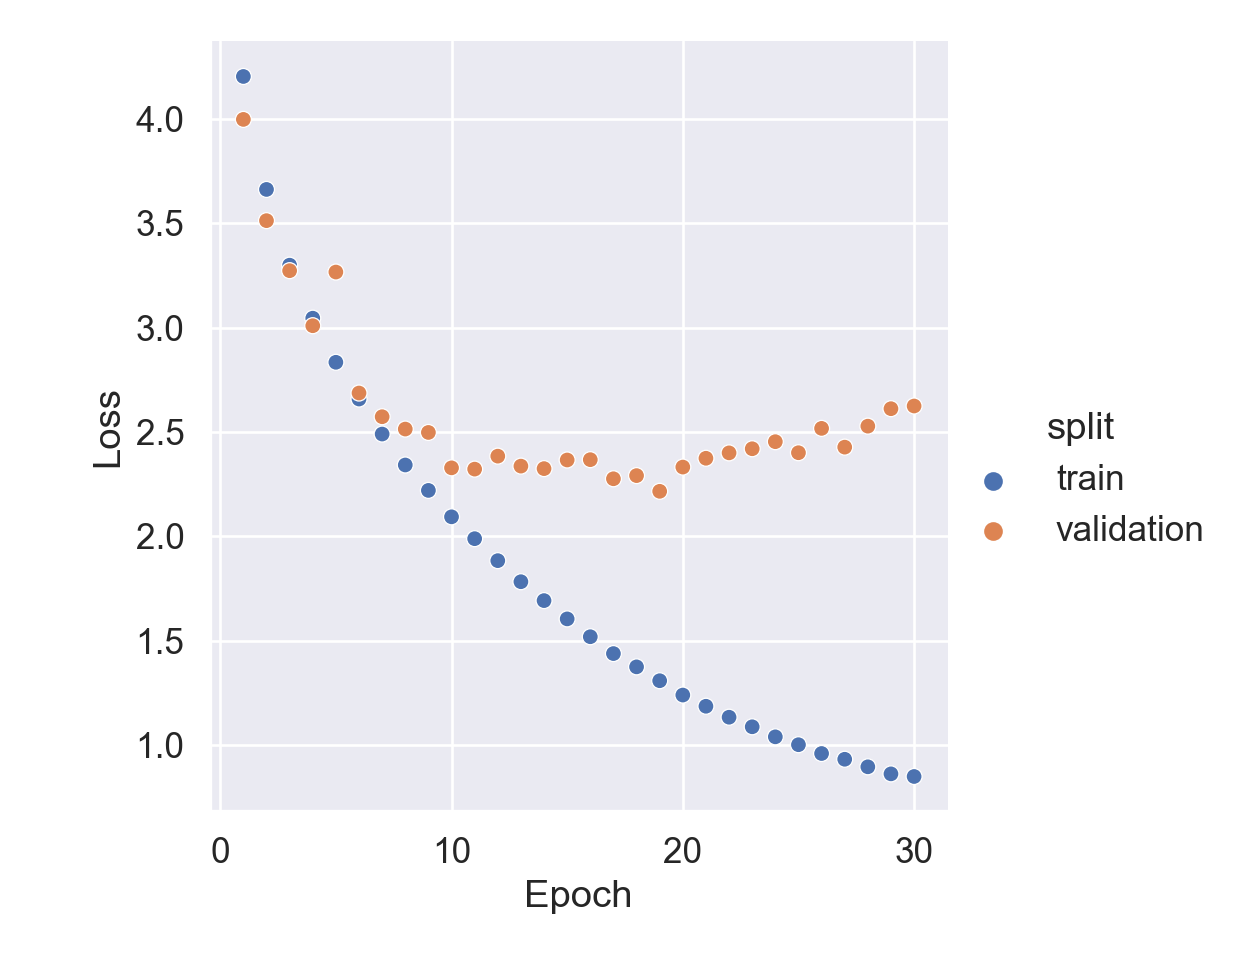
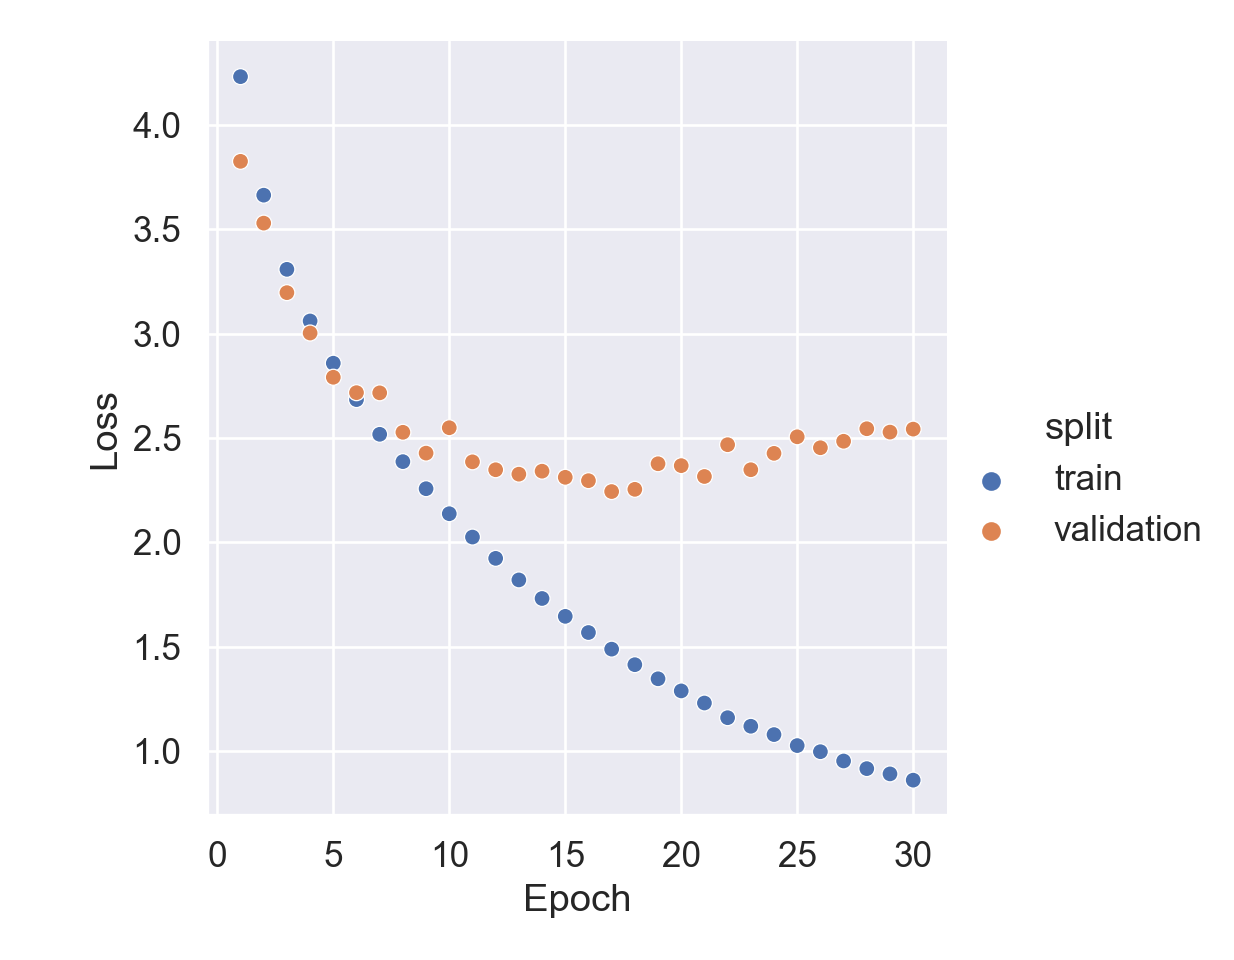
minor edits

diff --git a/slides/10-nn/cifar100_cnn/cifar100_cnn.html b/slides/10-nn/cifar100_cnn/cifar100_cnn.html
@@ -7,7 +7,7 @@
 <meta name="viewport" content="width=device-width, initial-scale=1.0, user-scalable=yes">
 
 <meta name="author" content="Dr.&nbsp;Hua Zhou @ UCLA">
-<meta name="dcterms.date" content="2023-02-22">
+<meta name="dcterms.date" content="2023-02-23">
 
 <title>CNN on the CIFAR100 Data</title>
 <style>
@@ -125,7 +125,7 @@ code span.wa { color: #60a0b0; font-weight: bold; font-style: italic; } /* Warni
 <header id="title-block-header" class="quarto-title-block default">
 <div class="quarto-title">
 <h1 class="title">CNN on the CIFAR100 Data</h1>
-<p class="subtitle lead">Econ 425T</p>
+<p class="subtitle lead">Econ 425T / Biostat 203B</p>
 </div>
 
 
@@ -142,7 +142,7 @@ code span.wa { color: #60a0b0; font-weight: bold; font-style: italic; } /* Warni
     <div>
     <div class="quarto-title-meta-heading">Published</div>
     <div class="quarto-title-meta-contents">
-      <p class="date">February 22, 2023</p>
+      <p class="date">February 23, 2023</p>
     </div>
   </div>
   
@@ -195,7 +195,7 @@ attached base packages:
 loaded via a namespace (and not attached):
  [1] Rcpp_1.0.9        here_1.0.1        lattice_0.20-45   png_0.1-8        
  [5] withr_2.5.0       rprojroot_2.0.3   digest_0.6.29     grid_4.2.2       
- [9] jsonlite_1.8.0    magrittr_2.0.3    evaluate_0.15     rlang_1.0.4      
+ [9] jsonlite_1.8.0    magrittr_2.0.3    evaluate_0.15     rlang_1.0.6      
 [13] stringi_1.7.8     cli_3.4.1         rstudioapi_0.13   Matrix_1.5-1     
 [17] reticulate_1.27   rmarkdown_2.14    tools_4.2.2       stringr_1.4.0    
 [21] htmlwidgets_1.6.1 xfun_0.31         yaml_2.3.5        fastmap_1.1.0    
@@ -699,7 +699,7 @@ _________________________________________________________________</code></pre>
 <div class="sourceCode cell-code" id="cb47"><pre class="sourceCode python code-with-copy"><code class="sourceCode python"><span id="cb47-1"><a href="#cb47-1" aria-hidden="true" tabindex="-1"></a>tf.keras.utils.plot_model(</span>
 <span id="cb47-2"><a href="#cb47-2" aria-hidden="true" tabindex="-1"></a>    model,</span>
 <span id="cb47-3"><a href="#cb47-3" aria-hidden="true" tabindex="-1"></a>    to_file <span class="op">=</span> <span class="st">"model.png"</span>,</span>
-<span id="cb47-4"><a href="#cb47-4" aria-hidden="true" tabindex="-1"></a>    show_shapes <span class="op">=</span> <span class="va">False</span>,</span>
+<span id="cb47-4"><a href="#cb47-4" aria-hidden="true" tabindex="-1"></a>    show_shapes <span class="op">=</span> <span class="va">True</span>,</span>
 <span id="cb47-5"><a href="#cb47-5" aria-hidden="true" tabindex="-1"></a>    show_dtype <span class="op">=</span> <span class="va">False</span>,</span>
 <span id="cb47-6"><a href="#cb47-6" aria-hidden="true" tabindex="-1"></a>    show_layer_names <span class="op">=</span> <span class="va">True</span>,</span>
 <span id="cb47-7"><a href="#cb47-7" aria-hidden="true" tabindex="-1"></a>    rankdir <span class="op">=</span> <span class="st">"TB"</span>,</span>
@@ -712,6 +712,9 @@ _________________________________________________________________</code></pre>
 
 </div>
 </div>
+<p align="center">
+<img src="./model.png" class="img-fluid" width="500">
+</p>
 </div>
 <div id="tabset-7-2" class="tab-pane" role="tabpanel" aria-labelledby="tabset-7-2-tab">
 <div class="cell" data-layout-align="center">
@@ -856,7 +859,7 @@ ________________________________________________________________________________
 <div class="cell-output-display">
 <div class="quarto-figure quarto-figure-center">
 <figure class="figure">
-<p><img src="cifar100_cnn_files/figure-html/unnamed-chunk-21-1.png" class="img-fluid figure-img" width="618"></p>
+<p><img src="cifar100_cnn_files/figure-html/unnamed-chunk-21-1.png" class="img-fluid figure-img" width="617"></p>
 </figure>
 </div>
 </div>
@@ -878,7 +881,7 @@ ________________________________________________________________________________
 <div class="cell-output-display">
 <div class="quarto-figure quarto-figure-center">
 <figure class="figure">
-<p><img src="cifar100_cnn_files/figure-html/unnamed-chunk-21-2.png" class="img-fluid figure-img" width="618"></p>
+<p><img src="cifar100_cnn_files/figure-html/unnamed-chunk-21-2.png" class="img-fluid figure-img" width="617"></p>
 </figure>
 </div>
 </div>
@@ -895,7 +898,7 @@ ________________________________________________________________________________
 <span id="cb55-7"><a href="#cb55-7" aria-hidden="true" tabindex="-1"></a>})</span></code><button title="Copy to Clipboard" class="code-copy-button"><i class="bi"></i></button></pre></div>
 <div class="cell-output cell-output-stdout">
 <pre><code>    user   system  elapsed 
-5653.867 2957.431  864.392 </code></pre>
+6007.114 3219.508  917.691 </code></pre>
 </div>
 <div class="sourceCode cell-code" id="cb57"><pre class="sourceCode r code-with-copy"><code class="sourceCode r"><span id="cb57-1"><a href="#cb57-1" aria-hidden="true" tabindex="-1"></a><span class="fu">plot</span>(history)</span></code><button title="Copy to Clipboard" class="code-copy-button"><i class="bi"></i></button></pre></div>
 <div class="cell-output-display">
@@ -921,11 +924,11 @@ ________________________________________________________________________________
 <div class="sourceCode cell-code" id="cb58"><pre class="sourceCode python code-with-copy"><code class="sourceCode python"><span id="cb58-1"><a href="#cb58-1" aria-hidden="true" tabindex="-1"></a>score <span class="op">=</span> model.evaluate(x_test, y_test, verbose <span class="op">=</span> <span class="dv">0</span>)</span>
 <span id="cb58-2"><a href="#cb58-2" aria-hidden="true" tabindex="-1"></a><span class="bu">print</span>(<span class="st">"Test loss:"</span>, score[<span class="dv">0</span>])</span></code><button title="Copy to Clipboard" class="code-copy-button"><i class="bi"></i></button></pre></div>
 <div class="cell-output cell-output-stdout">
-<pre><code>Test loss: 2.5372560024261475</code></pre>
+<pre><code>Test loss: 2.4657680988311768</code></pre>
 </div>
 <div class="sourceCode cell-code" id="cb60"><pre class="sourceCode python code-with-copy"><code class="sourceCode python"><span id="cb60-1"><a href="#cb60-1" aria-hidden="true" tabindex="-1"></a><span class="bu">print</span>(<span class="st">"Test accuracy:"</span>, score[<span class="dv">1</span>])</span></code><button title="Copy to Clipboard" class="code-copy-button"><i class="bi"></i></button></pre></div>
 <div class="cell-output cell-output-stdout">
-<pre><code>Test accuracy: 0.45879998803138733</code></pre>
+<pre><code>Test accuracy: 0.4530999958515167</code></pre>
 </div>
 </div>
 </div>
@@ -934,14 +937,14 @@ ________________________________________________________________________________
 <div class="sourceCode cell-code" id="cb62"><pre class="sourceCode r code-with-copy"><code class="sourceCode r"><span id="cb62-1"><a href="#cb62-1" aria-hidden="true" tabindex="-1"></a>model <span class="sc">%&gt;%</span> <span class="fu">evaluate</span>(x_test, y_test)</span></code><button title="Copy to Clipboard" class="code-copy-button"><i class="bi"></i></button></pre></div>
 <div class="cell-output cell-output-stdout">
 <pre><code>    loss accuracy 
-2.408759 0.458100 </code></pre>
+2.407828 0.453700 </code></pre>
 </div>
 </div>
 <p>Generate predictions on new data:</p>
 <div class="cell" data-layout-align="center">
 <div class="sourceCode cell-code" id="cb64"><pre class="sourceCode r code-with-copy"><code class="sourceCode r"><span id="cb64-1"><a href="#cb64-1" aria-hidden="true" tabindex="-1"></a>model <span class="sc">%&gt;%</span> <span class="fu">predict</span>(x_test) <span class="sc">%&gt;%</span> <span class="fu">k_argmax</span>()</span></code><button title="Copy to Clipboard" class="code-copy-button"><i class="bi"></i></button></pre></div>
 <div class="cell-output cell-output-stdout">
-<pre><code>tf.Tensor([49 33 55 ... 51 88 70], shape=(10000), dtype=int64)</code></pre>
+<pre><code>tf.Tensor([30 80 55 ... 51 42 70], shape=(10000), dtype=int64)</code></pre>
 </div>
 </div>
 </div>
